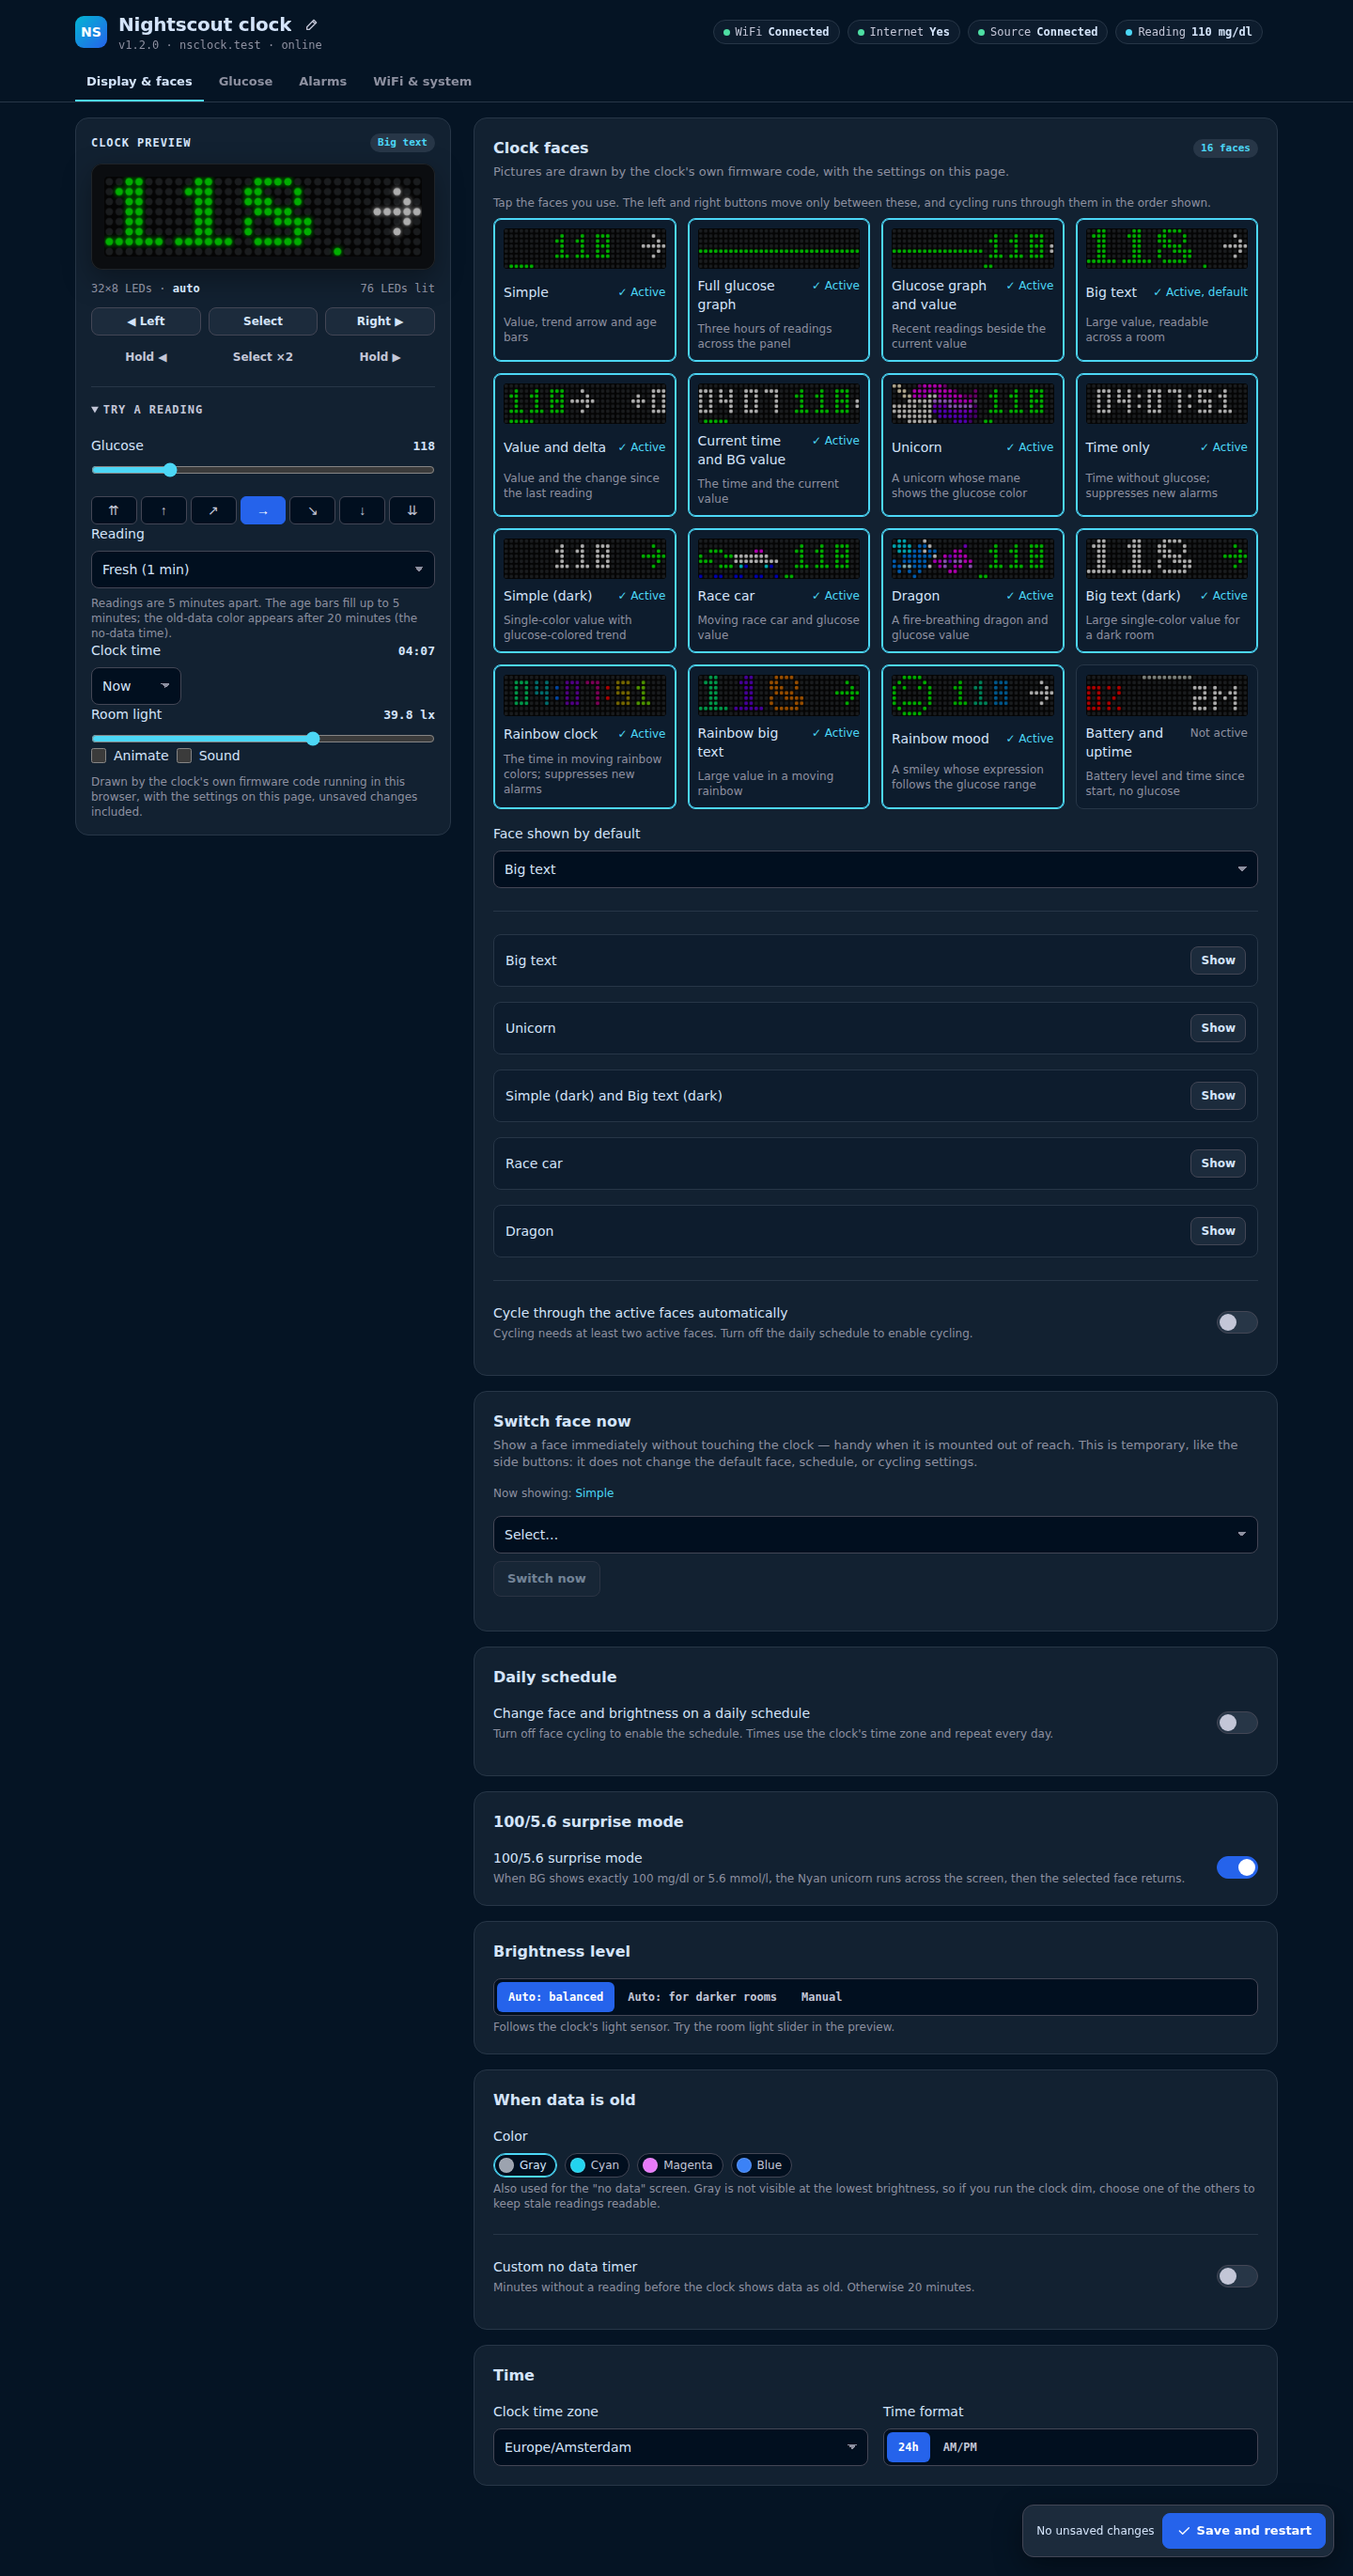
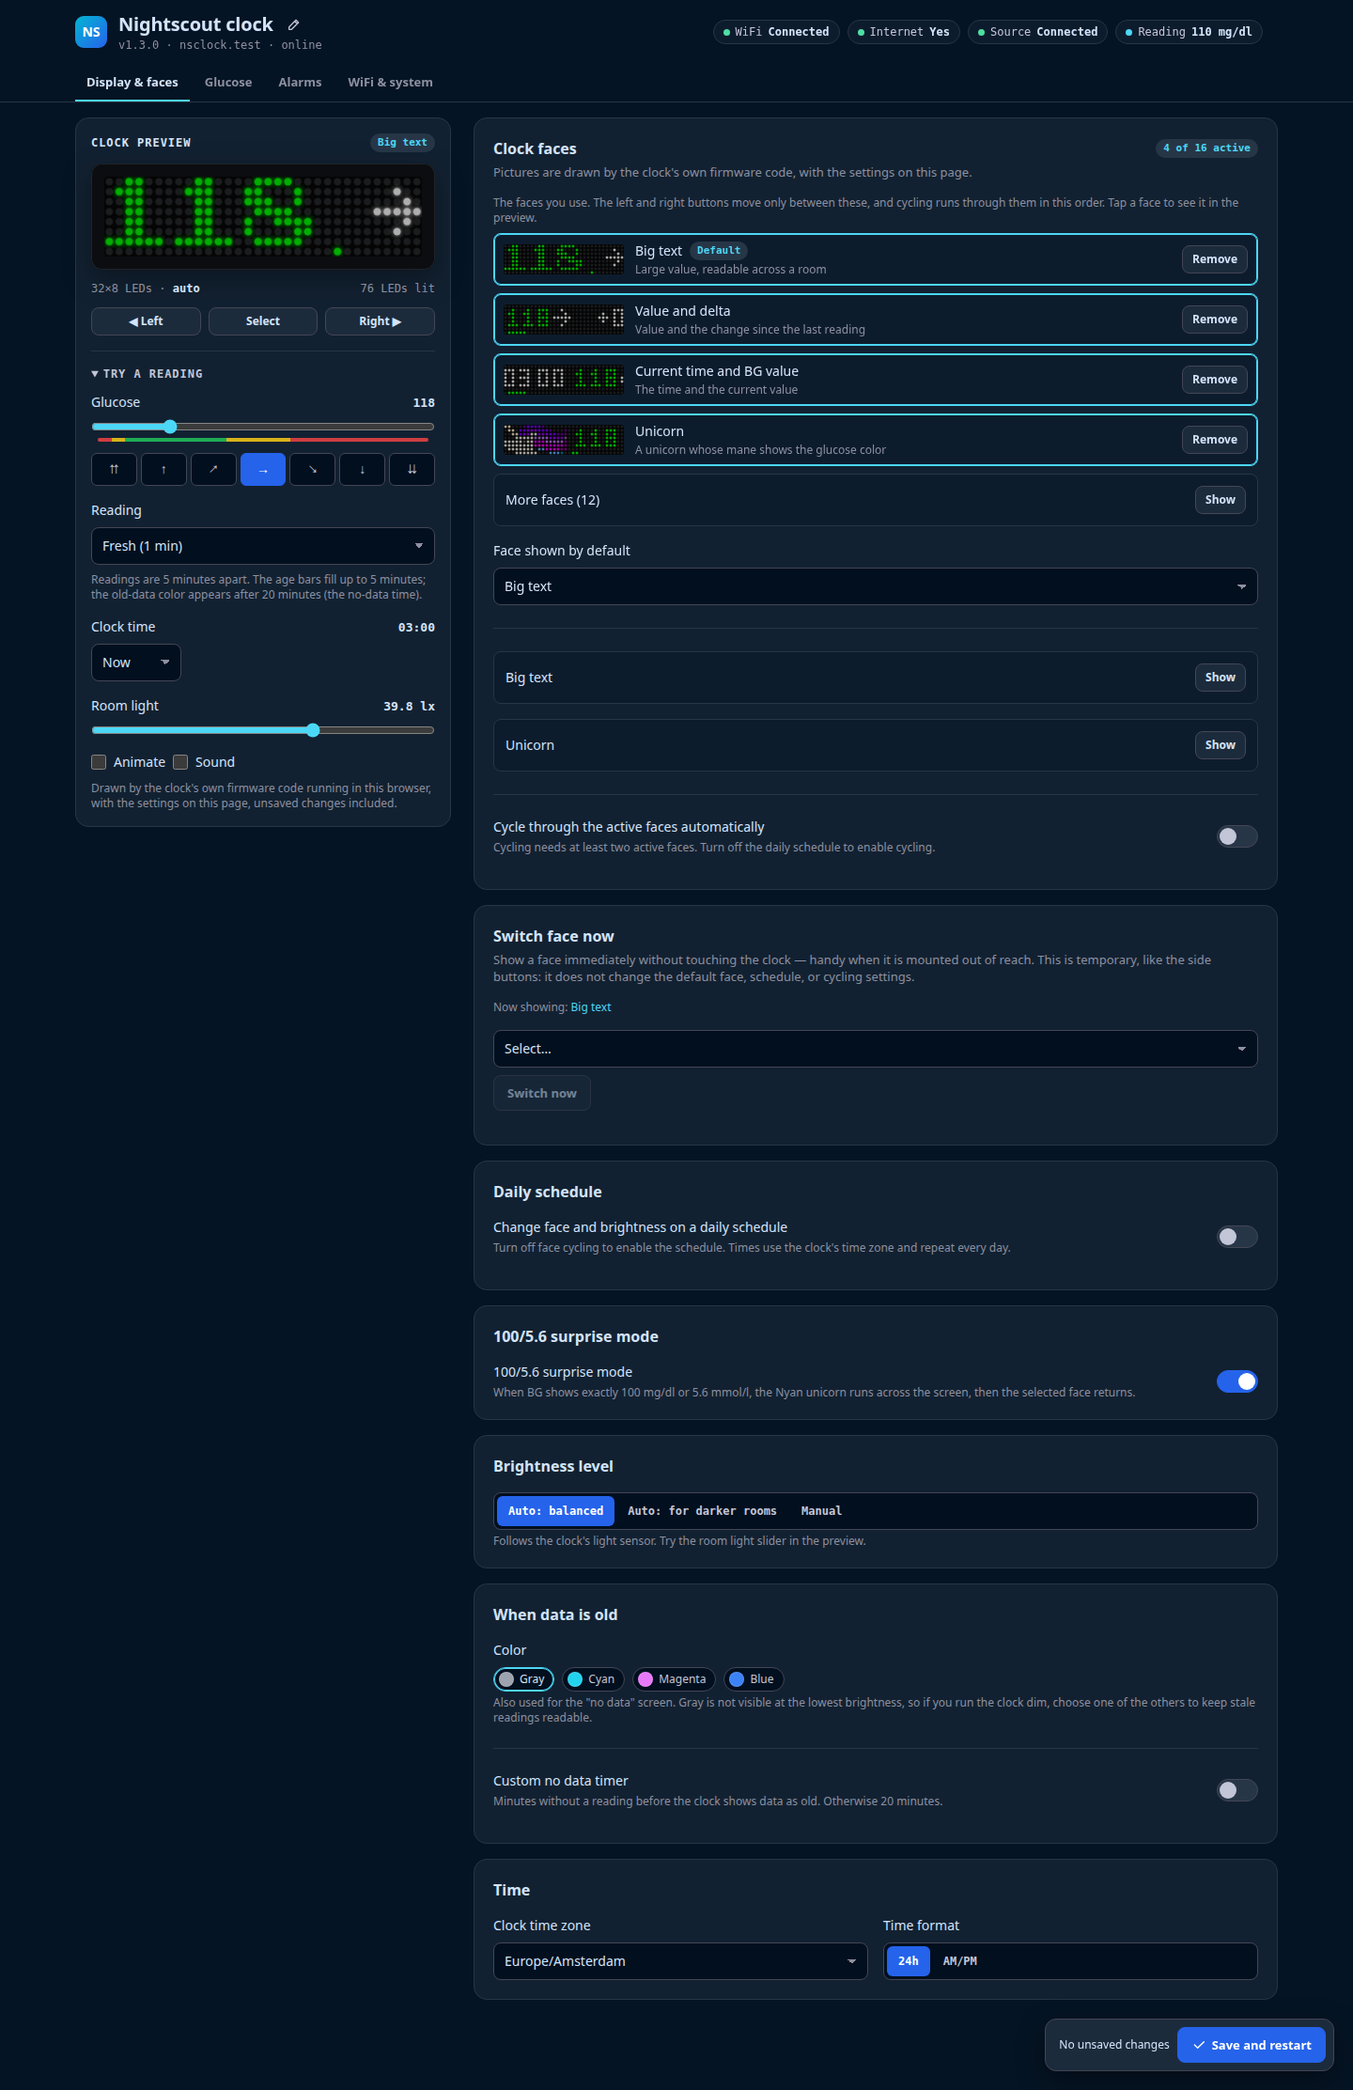
Regenerate the README screenshots with the face gallery
The Clock faces card now lists the active faces and keeps the others in a gallery, so the README screenshots are regenerated to match. The screenshot's sample status now shows Big text, one of the faces active in the factory config.

diff --git a/scripts/screenshot_web_ui.py b/scripts/screenshot_web_ui.py
@@ -88,7 +88,7 @@ def main():
             route.fulfill(json={
                 "isInAPMode": False, "isConnected": True, "hasInternet": True,
                 "bgSourceStatus": "connected", "sgv": 110,
-                "hasRecentData": True, "faceId": "simple",
+                "hasRecentData": True, "faceId": "big_text",
             })
         else:
             asset = (ROOT / "data" / (path.lstrip("/") or "index.html")).resolve()
